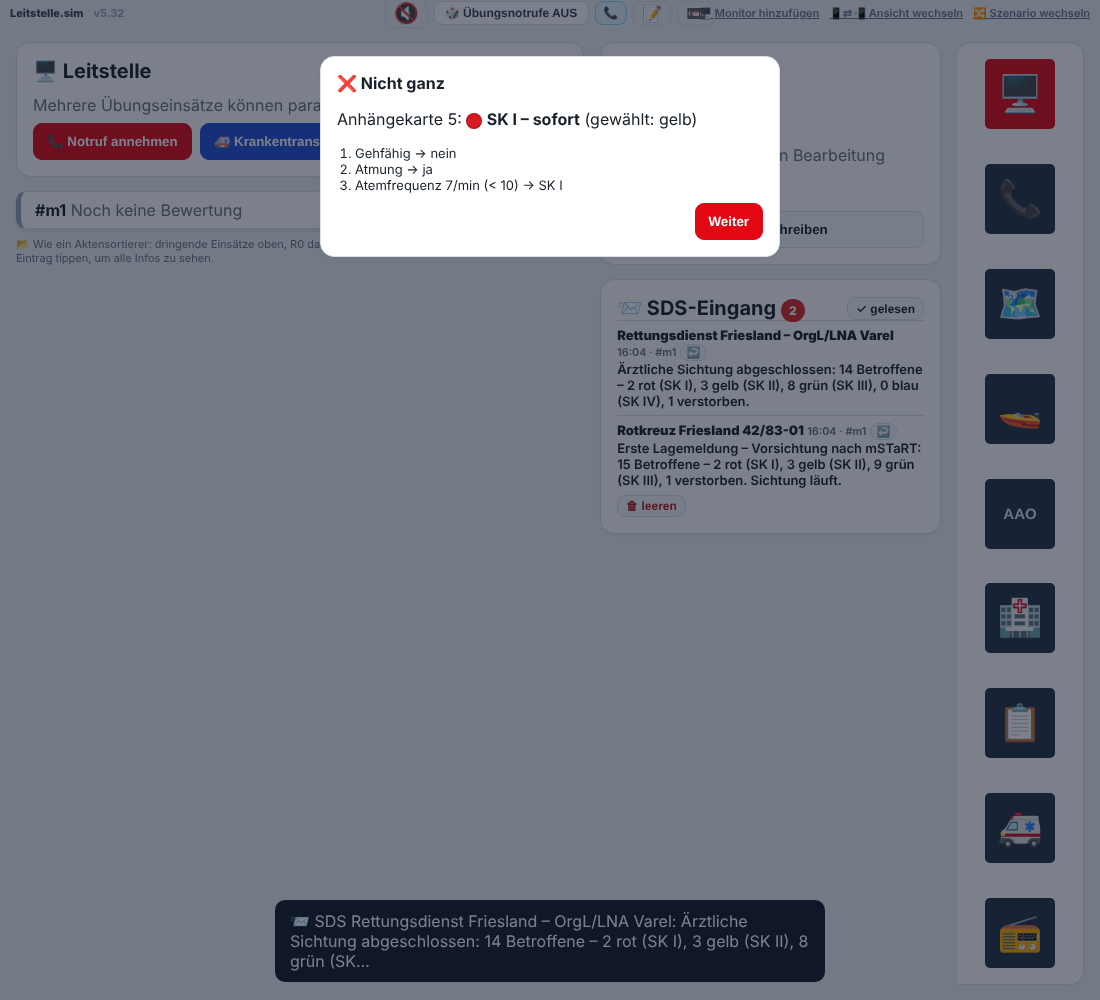
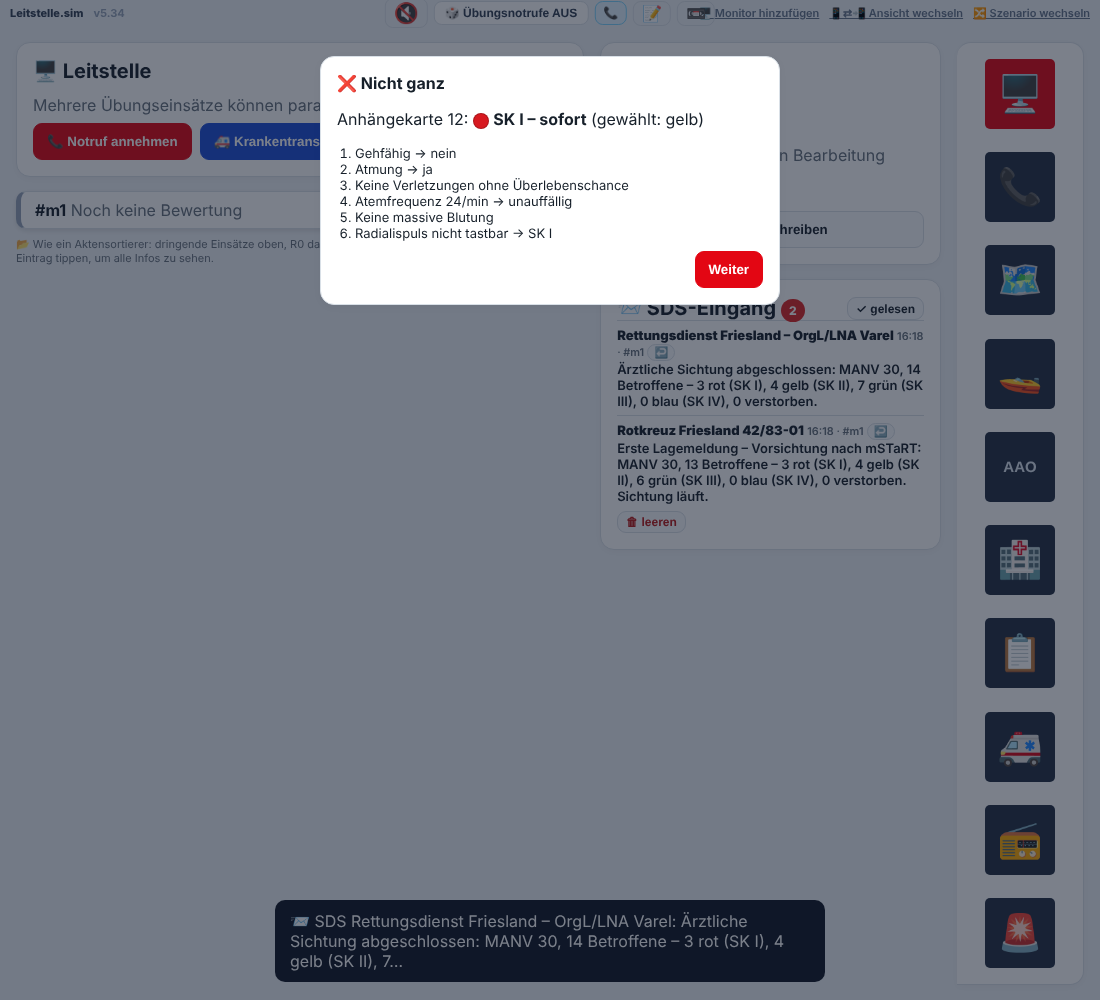
v5.34: MANV-Patientenübersicht, Sichtung per Fahrzeug-Handy, Nachbarkreise beim MANV direkt + Gebietsabsicherung
Claude-Session: https://claude.ai/code/session_01KTpf6e5UNSs8WWJnGktfVJ

diff --git a/index.html b/index.html
@@ -170,7 +170,7 @@ html[data-device="handy"] #floatDock{left:8px;right:8px;width:auto;top:auto;bott
 </head>
 <body>
 <div style="padding:6px 10px;font-size:11px;color:#94a3b8;font-weight:700;display:flex;flex-wrap:wrap;align-items:center;gap:10px;position:sticky;top:0;z-index:10;background:var(--bg)">
- <span style="color:#334155;font-weight:800">Leitstelle.sim</span> <span id="versionTag">v5.33</span>
+ <span style="color:#334155;font-weight:800">Leitstelle.sim</span> <span id="versionTag">v5.34</span>
  <span id="syncState"></span> <a id="deskTag" href="#" onclick="renameDesk();return false" title="Name dieses Platzes (für „offen an …“) – antippen zum Ändern" style="color:#64748b;font-weight:700;text-decoration:none"></a>
  <span id="simCtl" style="position:absolute;left:50%;transform:translateX(-50%);display:flex;gap:6px;align-items:center"></span>
  <a id="homeLink" href="#" onclick="render('leitstelle');return false" class="hidden" style="color:#64748b;text-decoration:underline;font-weight:600">🖥 Leitstelle</a>
@@ -829,7 +829,7 @@ const isTerminalLink=(()=>{
  return !!(p.get("vehicle")||p.get("neighbor")||p.get("caller"));
 })();
 const NAV_PAGES_ALL=[
- ["leitstelle","🖥 Leitstelle"],["notruf","📞 Notruf"],["karte","🗺 Karte"],["mittel","🚤 Fahrzeuge"],["aao","🧠 AAO"],["ivena","🏥 IVENA"],["ivenaZuweisungen","📋 IVENA-Zuweisungen"],["nachbarLks","🚑 Nachbar LKs"],["funk","📻 Funkrufgruppen"]
+ ["leitstelle","🖥 Leitstelle"],["notruf","📞 Notruf"],["karte","🗺 Karte"],["mittel","🚤 Fahrzeuge"],["aao","🧠 AAO"],["ivena","🏥 IVENA"],["ivenaZuweisungen","📋 IVENA-Zuweisungen"],["nachbarLks","🚑 Nachbar LKs"],["funk","📻 Funkrufgruppen"],["manv","🚨 MANV"]
 ];
 // Zusatz-Monitor (per QR vom Hauptplatz geöffnet): vollwertige Leitstellen-Oberfläche, die ihren
 // kompletten Zustand in Echtzeit mit dem Hauptplatz und allen anderen Monitoren teilt.
@@ -1159,6 +1159,7 @@ function render(page="leitstelle"){
  if(page==="nachbarLks") nachbarLks();
  if(page==="protokolle") simProtoPage();
  if(page==="funk") funkPage();
+ if(page==="manv") manvPage();
  const app=document.getElementById("app");
  if(app){
    const inner=app.innerHTML;
@@ -1479,7 +1480,7 @@ function simulatedUnitPosition(u){
    const call=findUnitCall(u);
    const hp=asg&&hospitalPoint(asg.hospitalId);
    const cp=!hp&&call&&callDestinationPoint(call,u);
-   const start=hp||cp;
+   const start=hp||cp||(u.cover&&u.coverFrom&&!call?u.coverFrom:null);
    if(!start)return null; // kein erkennbarer vorheriger Ort -> einfach an der Wache
    const totalMs=(u.status2Due&&u.status1Since)?(u.status2Due-u.status1Since):8*60000;
    const startMs=u.status1Since||Date.now();
@@ -2238,12 +2239,13 @@ function islandReachable(u){
 }
 // DRK-Rettungswagen/-KTW sind Hintergrunddienst: nie automatisch vorschlagen, nur manuell
 // (Reiter DRK) oder wenn ausdrücklich die Organisation DRK angefordert ist.
-function drkBackground(u){return u&&u.org==="DRK"&&["RTW","KTW","NKTW","NEF"].includes(u.type)}
+function drkBackground(u){return u&&u.org==="DRK"&&["RTW","KTW","NKTW","NEF"].includes(u.type)&&!AVAIL_MANV}
+let AVAIL_MANV=false; // v5.34: beim MANV gehören auch die DRK-Hintergrund-Rettungsmittel in den Vorschlag
 function availableUnits(type,org=null){
  const orgOk=u=>!org||u.org===org||(org==="DLRG"&&u.wasserrettung);
- const prim=nearestFirst(db.units.filter(u=>!u.neighborLoan&&(!type||u.type===type)&&orgOk(u)&&(org==="DRK"||!drkBackground(u))&&["1","2"].includes(u.status)&&islandReachable(u)));
+ const prim=nearestFirst(db.units.filter(u=>(!u.neighborLoan||u.cover)&&(!type||u.type===type)&&orgOk(u)&&(org==="DRK"||!drkBackground(u))&&["1","2"].includes(u.status)&&islandReachable(u)));
  if(prim.length)return prim;
- return nearestFirst(db.units.filter(u=>!u.neighborLoan&&(!type||u.type===type)&&orgOk(u)&&(org==="DRK"||!drkBackground(u))&&u.status==="8"&&islandReachable(u)));
+ return nearestFirst(db.units.filter(u=>(!u.neighborLoan||u.cover)&&(!type||u.type===type)&&orgOk(u)&&(org==="DRK"||!drkBackground(u))&&u.status==="8"&&islandReachable(u)));
 }
 function chooseOne(type,org=null){return availableUnits(type,org)[0]||null}
 
@@ -2305,9 +2307,9 @@ function thwGroup(u){return String(u.fachgruppe||THW_GROUP_DEFAULT[u.opta]||"Ohn
 function chooseAvailableByType(type,org=null){
  const types=Array.isArray(type)?type:[type];
  const orgOk=u=>!org||u.org===org;
- const primary=nearestFirst(db.units.filter(u=>!u.neighborLoan&&orgOk(u)&&(org==="DRK"||!drkBackground(u))&&islandReachable(u)&&types.includes(u.type) && ["1","2"].includes(String(u.status))));
+ const primary=nearestFirst(db.units.filter(u=>(!u.neighborLoan||u.cover)&&orgOk(u)&&(org==="DRK"||!drkBackground(u))&&islandReachable(u)&&types.includes(u.type) && ["1","2"].includes(String(u.status))));
  if(primary.length)return primary[0];
- const fallback=nearestFirst(db.units.filter(u=>!u.neighborLoan&&orgOk(u)&&(org==="DRK"||!drkBackground(u))&&islandReachable(u)&&types.includes(u.type) && String(u.status)==="8"));
+ const fallback=nearestFirst(db.units.filter(u=>(!u.neighborLoan||u.cover)&&orgOk(u)&&(org==="DRK"||!drkBackground(u))&&islandReachable(u)&&types.includes(u.type) && String(u.status)==="8"));
  return fallback[0]||null;
 }
 // Wasserrettungszug Friesland: Das Führungsfahrzeug (Pelikan Friesland 71/11-01, ELW1) wird
@@ -2351,6 +2353,56 @@ function loanNeighborUnit(nu){
  db.units.push(loaned);
  nu.status="3";
  return loaned;
+}
+// v5.34: MANV – Nachbar-Fahrzeug direkt alarmieren (ohne Anfrage), Nachbar-LST bekommt eine Info
+function manvNbAlarm(call,nu,coverFor){
+ const lst=NEIGHBOR_LEITSTELLE[nu.district]==="ostfriesland"?"KRLS Ostfriesland":"GOL";
+ const loaned=loanNeighborUnit(nu);
+ if(coverFor){
+   // Gebietsabsicherung: fährt an unsere Wache und steht dort für neue Einsätze bereit
+   Object.assign(loaned,{cover:true,coverCallId:String(call.id),coverFor:coverFor.name,location:coverFor.name,homeLat:coverFor.pt[0],homeLng:coverFor.pt[1],coverFrom:[nu.lat,nu.lng]});
+   delete loaned.lat; delete loaned.lng;
+   const km=haversine(nu.lat,nu.lng,coverFor.pt[0],coverFor.pt[1]);
+   loaned.status="1"; loaned.status1Since=Date.now(); loaned.status2Due=Date.now()+Math.max(4,Math.round(2+km/70*60))*60000;
+   (call.history=call.history||[]).push({q:`🛡 Gebietsabsicherung (${lst})`,a:`${nu.opta} aus LK ${nu.district} → Wache ${coverFor.name}, ca. ${Math.round((loaned.status2Due-Date.now())/60000)} min`});
+ }else{
+   setUnitStatus(loaned,"3"); appendUnitToCall(call,loaned,`Nachbar-LK ${nu.district} (MANV)`);
+   call.alarmedUnits=call.alarmedUnits||[]; if(!call.alarmedUnits.some(id=>String(id)===String(loaned.id)))call.alarmedUnits.push(loaned.id);
+   (call.history=call.history||[]).push({q:`🚑 MANV: Nachbar-LK direkt alarmiert`,a:`${nu.opta} (LK ${nu.district}) – ${lst} informiert`});
+ }
+ call.manvNbInfo=call.manvNbInfo||{}; call.manvNbInfo[lst]=(call.manvNbInfo[lst]||0)+1;
+ return loaned;
+}
+// Gebietsabsicherung: jede eigene RTW-/NEF-Wache ohne freies Fahrzeug bekommt eins aus den Nachbarkreisen
+function manvAreaCover(callId){
+ const call=allOpenCalls().find(c=>String(c.id)===String(callId)); if(!call)return;
+ const own=db.units.filter(u=>!u.neighborLoan&&["RTW","NEF"].includes(u.type)&&!u.island&&String(u.status)!=="6"&&(u.org==="Rettungsdienst"||u.org==="DRK"));
+ const wachen=new Map(); own.forEach(u=>{const k=u.type+"|"+(u.location||"?");if(!wachen.has(k))wachen.set(k,{type:u.type,name:u.location||"?",units:[],pt:unitPoint(u)});wachen.get(k).units.push(u)});
+ const usedN=new Set(); let n=0;
+ for(const w of wachen.values()){
+   if(!w.pt)continue;
+   if(w.units.some(u=>["1","2"].includes(String(u.status))))continue; // dort ist noch eins frei
+   if(db.units.some(u=>u.cover&&u.coverFor===w.name&&u.type===w.type))continue;
+   const free=(db.neighborUnits||[]).filter(x=>x.type===w.type&&["1","2"].includes(String(x.status))&&!usedN.has(String(x.id))&&Number.isFinite(x.lat));
+   const keepsOne=x=>free.filter(y=>y.district===x.district).length>1;
+   const cand=free.filter(keepsOne).map(x=>({x,km:haversine(w.pt[0],w.pt[1],x.lat,x.lng)})).sort((a,b)=>a.km-b.km)[0];
+   if(!cand){(call.history=call.history||[]).push({q:"🛡 Gebietsabsicherung",a:`Wache ${w.name} (${w.type}): kein Nachbar-Fahrzeug mehr frei`});continue}
+   usedN.add(String(cand.x.id)); manvNbAlarm(call,cand.x,w); n++;
+ }
+ const info=Object.entries(call.manvNbInfo||{}).map(([l,k])=>`${l}: ${k} Fahrzeug${k>1?"e":""}`).join(" · ");
+ if(info){sdsLog({dir:"in",opta:"Nachbar-Leitstellen",callId:String(call.id),text:`🚨 MANV-Info bestätigt – ${info}${n?` (davon ${n} zur Gebietsabsicherung)`:""}`,read:false});toast(`🚑 MANV: Nachbarkreise direkt alarmiert – ${info}`)}
+ save(); if(["leitstelle","karte","mittel","nachbarLks"].includes(currentPage)&&!uiLocked)render(currentPage);
+}
+// MANV beendet → Gebietsabsicherung fährt heim (wenn frei; sonst nach dem laufenden Einsatz)
+function manvCoverRelease(callId){
+ let changed=false;
+ db.units.filter(u=>u.cover&&String(u.coverCallId)===String(callId)).forEach(u=>{
+   const busy=allOpenCalls().some(o=>String(o.id)!==String(callId)&&(o.alarmedUnits||[]).some(id=>String(id)===String(u.id)));
+   if(busy){u.coverEnd=true;return}
+   const orig=(db.neighborUnits||[]).find(n=>String(n.id)===String(u.neighborUnitId)); if(orig)orig.status="1";
+   db.units=db.units.filter(x=>String(x.id)!==String(u.id)); changed=true;
+ });
+ return changed;
 }
 function alarmNeighborUnit(neighborUnitId,callId){
  const call=allOpenCalls().find(c=>String(c.id)===String(callId));
@@ -4232,6 +4284,10 @@ function goBackNotruf(){
 }
 function evaluate(){
  applyDutySchedule();
+ AVAIL_MANV=Number(db.currentCall&&db.currentCall.answers&&db.currentCall.answers.count)>3;
+ try{return evaluate0()}finally{AVAIL_MANV=false}
+}
+function evaluate0(){
  const c=db.currentCall, a=c.answers, e=a.event||"";
 
  if(a.callType && a.callType!=="112"){
@@ -4575,7 +4631,12 @@ function evaluate(){
    // (Zeitersparnis gegenüber dem ersten anderen Einsatzmittel wird nach der Auswahl geprüft.)
    if(r.firstResponder&&u){const fe=estimatedEtaMinutes(u);if(fe==null||fe>15)continue}
    if(u){selected.push({...u,firstResponder:!!r.firstResponder});used.add(u.id)}
-   else selected.push({missing:true,type:r.type,org:r.org});
+   else{
+     // v5.34 MANV: fehlende Rettungsmittel kommen direkt aus den Nachbarkreisen – auch von weiter weg
+     const nbm=AVAIL_MANV&&ip&&!incidentOnWangerooge()?(db.neighborUnits||[]).filter(n=>n.type===r.type&&["1","2"].includes(String(n.status))&&!usedN.has(String(n.id))&&Number.isFinite(n.lat)).map(n=>{const km=haversine(ip[0],ip[1],n.lat,n.lng);return {n,km,eta:etaMinutesForDistance({...n,org:"Rettungsdienst",neighborLoan:true,status:String(n.status)},km)}}).sort((x,y)=>x.eta-y.eta)[0]:null;
+     if(nbm){selected.push({...nbm.n,neighbor:true,neighborKm:nbm.km,neighborEta:nbm.eta});usedN.add(String(nbm.n.id))}
+     else selected.push({missing:true,type:r.type,org:r.org});
+   }
  }
  // First Responder nur bei echter Zeitersparnis gegenüber dem ersten eintreffenden Einsatzmittel
  // (Nutzerangabe): Reanimation > 1 min, Verkehrsunfall > 2 min, sonst > 3 min.
@@ -4831,7 +4892,11 @@ function alarmProposal(){
  // angefragt werden (sie entscheidet und alarmiert selbst). Vorschläge werden automatisch angefragt.
  const nbAsk=(c.neighborProposal||[]).map(nid=>(db.neighborUnits||[]).find(n=>String(n.id)===String(nid))).filter(Boolean);
  c.neighborProposal=[];
- setTimeout(()=>nbAsk.forEach(nu=>nbOutRequest(c.id,NEIGHBOR_LEITSTELLE[nu.district],{unitId:nu.id,type:nu.type})),300);
+ const manvNow=isManvCall(c)&&currentScenarioId==="fri-whv";
+ // v5.34: beim MANV werden Nachbar-Fahrzeuge ohne Rückfrage direkt alarmiert (Nachbar-LST wird informiert)
+ if(manvNow){c.alarmedUnits=c.alarmedUnits||[];for(const nu of nbAsk)if(["1","2"].includes(String(nu.status)))manvNbAlarm(c,nu,null)}
+ else setTimeout(()=>nbAsk.forEach(nu=>nbOutRequest(c.id,NEIGHBOR_LEITSTELLE[nu.district],{unitId:nu.id,type:nu.type})),300);
+ if(manvNow)setTimeout(()=>{try{manvAreaCover(c.id)}catch(e){console.warn(e)}},500);
  for(const id of c.proposedUnitIds){
    const u=db.units.find(x=>x.id===id);
    if(!u)continue;
@@ -5182,6 +5247,88 @@ function manvTrainPick(sk){
   <ol style="font-size:13px;margin:0 0 0 18px;padding:0">${r.path.map(x=>`<li>${esc(x)}</li>`).join("")}</ol>
   <div class="row" style="justify-content:flex-end;margin-top:10px"><button class="primary" onclick="manvTrainDialog('${esc(String(T.id))}')">Weiter</button></div>`);
 }
+// ─── v5.34: Sichtung per Fahrzeug-Handy + MANV-Patientenübersicht ───────────────────────────────
+// Sichten dürfen: RTW, RTH, KTW, NKTW, KTH, NEF, ITW, ITH, NAW, GW-San, GW Wasserrettung und
+// GW Drohne der DLRG sowie ELW, MTW und MZF des DRK. Patientenkarten (Anhängekarten) je Fahrzeug:
+// NEF 25, GW-San und ELW 50, alle anderen 15. Kartennummer = Fahrzeug + laufende Nummer.
+const TRIAGE_RD=new Set(["RTW","RTH","KTW","NKTW","KTH","NEF","ITW","ITH","NAW"]);
+function triageCardCount(u){
+ if(!u)return 0; const t=String(u.type||""), o=String(u.org||"");
+ if(/^GW[- ]?San/i.test(t))return 50;
+ if(t==="NEF")return 25;
+ if(TRIAGE_RD.has(t))return 15;
+ if(o==="DLRG"&&/^GW (Wasserrettung|Drohne)$/i.test(t))return 15;
+ if(o==="DRK"&&/^ELW/i.test(t))return 50;
+ if(o==="DRK"&&/^(MTW|MZF)$/i.test(t))return 15;
+ return 0;
+}
+function triageUnitTag(u){const s=String(u&&(u.opta||u.name)||"?");const m=s.match(/(\d+[\/-]\d+(?:-\d+)?)\s*$/);return m?m[1]:s.slice(-8)}
+function triageCardId(u,n){return `${triageUnitTag(u)}-${String(n).padStart(2,"0")}`}
+function isManvLike(c){return !!c&&(!!c.manv||/MANV/.test(c.keyword||"")||Number(c.answers&&c.answers.count)>3)}
+// Alle Patienten eines MANV: Handy-Sichtungen der Einsatzkräfte + simulierte Vorsichtung
+function manvAllPatients(c){
+ const out=[];
+ Object.values(c.manvCards||{}).forEach(x=>out.push({src:"phone",card:x.cardId||x.card,sk:Number(x.sk),by:x.label||String(x.unitId),at:x.at,hist:x.hist||[]}));
+ if(c.manvTruth&&c.manvTruth.pats&&(c.manvReports||[]).length){
+   const orgl=(c.manvReports||[]).some(r=>r.kind==="orgl"), first=(c.manvReports||[]).find(r=>r.kind==="first");
+   c.manvTruth.pats.forEach(p=>{const tr=(c.manvPatients||[]).find(x=>x.pid===p.n), u=tr&&tr.unit?db.units.find(x=>String(x.id)===String(tr.unit)):null;
+     out.push({src:"sim",card:String(p.n),sk:orgl?p.sk:p.vs,by:first?first.by:"",at:first?first.at:null,p,unit:u?(u.opta||u.name):"",vs:p.vs})});
+ }
+ return out;
+}
+function manvPage(){
+ const calls=allOpenCalls().filter(c=>c&&isManvLike(c));
+ const f=window._manvFilter||0;
+ const chip=(k,l)=>`<button onclick="window._manvFilter=${k};render('manv')" class="${f===k?"primary":""}" style="font-size:12px;padding:4px 10px">${l}</button>`;
+ const block=c=>{
+   const P=manvAllPatients(c).filter(x=>!f||x.sk===f).sort((a,b)=>a.sk-b.sk||String(a.card).localeCompare(String(b.card),"de",{numeric:true}));
+   const all=manvAllPatients(c), cnt=k=>all.filter(x=>x.sk===k).length;
+   const rows=P.map(x=>`<tr style="border-bottom:1px solid var(--line)"><td style="padding:5px 4px;font-weight:800;white-space:nowrap">${esc(String(x.card))}</td><td>${mstartDot(x.sk,15)} <small>${MSTART_COL[x.sk]?MSTART_COL[x.sk][2]:"?"}</small>${x.src==="sim"&&x.vs!==x.sk?` <small class="muted">(Vorsichtung ${MSTART_COL[x.vs][1]})</small>`:""}${(x.hist||[]).length>1?` <small class="muted">(vorher ${x.hist.slice(0,-1).map(h=>MSTART_COL[h]?MSTART_COL[h][1]:h).join(", ")})</small>`:""}</td>
+     <td style="font-size:12px">${x.src==="phone"?`📱 ${esc(x.by)}`:`<span title="Simulierte Lage">🤖 ${esc(x.by||"")}</span>`}${x.at?` <span class="muted">${hhmm(x.at)}</span>`:""}</td>
+     <td style="font-size:12px">${x.p?`${x.p.gender==="W"?"♀":"♂"} ${x.p.age} J. – ${esc(x.p.inj)}`:"<span class='muted'>—</span>"}</td><td style="font-size:12px">${x.unit?esc(x.unit):x.sk===5?"—":"<span class='muted'>offen</span>"}</td></tr>`).join("");
+   return `<div class="card"><div class="row between"><h3 style="margin:0">#${esc(String(c.id))} ${esc(c.keyword||"MANV")}</h3><small class="muted">${esc(c.location||"")}</small></div>
+    <div style="margin:6px 0;font-weight:800">${[1,2,3,4,5].map(k=>`<span style="margin-right:12px">${mstartDot(k,13)} ${cnt(k)}</span>`).join("")}<small class="muted">${all.length} Patienten gesamt</small></div>
+    ${P.length?`<div style="overflow:auto"><table style="width:100%;border-collapse:collapse"><tr style="text-align:left;font-size:12px"><th>Karte</th><th>SK</th><th>Gesichtet von</th><th>Patient</th><th>Transport</th></tr>${rows}</table></div>`:`<p class="muted">Noch keine Patienten gesichtet${f?" in dieser Kategorie":""}.</p>`}</div>`};
+ document.getElementById("app").innerHTML=`<div class="card"><h2 style="margin:0">🚨 MANV – alle Patienten</h2>
+  <p class="muted" style="margin:4px 0 8px">📱 = vom Fahrzeug-Handy gesichtet · 🤖 = simulierte Sichtung. Aktualisiert sich von selbst.</p>
+  <div class="row" style="gap:6px;flex-wrap:wrap">${chip(0,"Alle")}${[1,2,3,4,5].map(k=>chip(k,`${mstartDot(k)} ${MSTART_COL[k][1]}`)).join("")}</div></div>
+  ${calls.length?calls.map(block).join(""):`<div class="card"><p class="muted">Zurzeit kein MANV.</p></div>`}
+  <div class="card">${mstartSchemeHTML()}</div>`;
+}
+setInterval(()=>{try{if(currentPage==="manv"&&!uiLocked&&!isTerminalLink&&!document.getElementById("lstModal"))render("manv")}catch(e){}},3000);
+// Fahrzeug-Handy: Karte wählen → Farbe wählen
+let vehicleTriageSel=null, vehicleTriageLocal={};
+function vehicleTriageHTML(local,unit,unitId,dburl,sid,c,mine){
+ const u={...(local||{}),...(unit||{})}, N=triageCardCount(u); if(!N)return "";
+ const st={...mine,...(vehicleTriageLocal[c.id]||{})};
+ const q=x=>String(x).replace(/'/g,"\\'");
+ const used=Object.keys(st).length;
+ const cell=n=>{const sk=st[n];const col=sk?MSTART_COL[sk][0]:"#fff";return `<button onclick="vehicleTriageSel=${vehicleTriageSel===n?"null":n};terminalRefreshFn&&terminalRefreshFn()" style="min-width:0;padding:8px 0;font-weight:800;background:${col};color:${sk===5||sk===1||sk===4?"#fff":"#111"};border:${vehicleTriageSel===n?"3px solid #111":"1px solid #94a3b8"}">${n}</button>`};
+ const pick=vehicleTriageSel&&vehicleTriageSel<=N?`<div style="margin-top:8px;padding:8px;border-radius:8px;background:#f1f5f9"><b>Karte ${esc(triageCardId(u,vehicleTriageSel))}</b>${st[vehicleTriageSel]?` – jetzt ${MSTART_COL[st[vehicleTriageSel]][1]}`:""}
+   <div style="display:grid;gap:6px;margin-top:6px">${[1,2,3,4,5].map(k=>`<button onclick="vehicleTriageSend('${q(unitId)}','${q(dburl)}','${q(sid)}','${q(String(c.id))}',${vehicleTriageSel},${k})" style="display:flex;align-items:center;justify-content:center;gap:8px;padding:12px;font-size:16px;font-weight:800;background:${MSTART_COL[k][0]};color:${k===2||k===3?"#111":"#fff"}">${MSTART_COL[k][2]}</button>`).join("")}
+   <button onclick="vehicleTriageSel=null;terminalRefreshFn&&terminalRefreshFn()">Abbrechen</button></div></div>`:"";
+ return `<div class="card" style="margin-top:12px"><div class="row between"><h2 style="margin:0">🏷 Sichtung</h2><small class="muted">${used}/${N} Karten benutzt</small></div>
+  <p class="muted" style="font-size:12px;margin:4px 0 8px">Patientenkarte antippen, dann Kategorie wählen. Nochmal antippen = umsichten.</p>
+  <div style="display:grid;grid-template-columns:repeat(5,1fr);gap:5px">${Array.from({length:N},(_,i)=>cell(i+1)).join("")}</div>${pick}
+  <div style="margin-top:8px;font-size:13px;font-weight:800">${[1,2,3,4,5].map(k=>`<span style="margin-right:10px">${mstartDot(k)} ${Object.values(st).filter(v=>v===k).length}</span>`).join("")}</div>
+  <details style="margin-top:6px"><summary style="cursor:pointer;font-size:13px">📘 mSTaRT</summary>${mstartSchemeHTML().replace(/^<details[^>]*><summary[^<]*<\/summary>/,"").replace(/<\/details>$/,"")}</details></div>`;
+}
+async function vehicleTriageSend(unitId,dburl,sid,callId,card,sk){
+ const local=db.units.find(x=>String(x.id)===String(unitId));
+ vehicleTriageLocal[callId]=vehicleTriageLocal[callId]||{}; vehicleTriageLocal[callId][card]=sk; vehicleTriageSel=null;
+ if(typeof terminalRefreshFn==="function")terminalRefreshFn();
+ try{await pushFeedbackEntry(dburl,sid,{kind:"triage",callId,unitId,unitLabel:local?.opta||local?.name||unitId,card,cardId:triageCardId(local||{name:unitId},card),sk});toast(`🏷 Karte ${card}: ${MSTART_COL[sk][1]}`)}
+ catch(e){toast("Senden fehlgeschlagen – bitte nochmal")}
+}
+// Leitstelle: eingehende Handy-Sichtung übernehmen (letzte Meldung je Karte gilt)
+function manvApplyTriage(call,fb){
+ call.manvCards=call.manvCards||{}; const key=`${fb.unitId}#${fb.card}`, old=call.manvCards[key];
+ if(old&&old.fbIds&&old.fbIds.includes(String(fb.id)))return false;
+ if(old&&new Date(old.at)>new Date(fb.time))return false;
+ const hist=(old&&old.hist||[]).concat([Number(fb.sk)]);
+ call.manvCards[key]={unitId:fb.unitId,label:fb.unitLabel,card:fb.card,cardId:fb.cardId||`${fb.unitId}-${fb.card}`,sk:Number(fb.sk),at:fb.time,hist,fbIds:(old&&old.fbIds||[]).concat([String(fb.id)]).slice(-20)};
+ call.manv=true; return true;
+}
 function manvReport(c,u,kind){
  const T=manvTruth(c), jit=v=>Math.max(0,v+(Math.random()<0.5?0:pick([-1,1])));
  manvPats(c);
@@ -5201,7 +5348,8 @@ function manvReport(c,u,kind){
  }
 }
 function manvStripHTML(c){
- const R=(c.manvReports||[]).slice(-1)[0]; if(!R&&!isManvCall(c))return "";
+ const R=(c.manvReports||[]).slice(-1)[0]; if(!R&&!isManvCall(c)&&!c.manvCards)return "";
+ const PC=Object.values(c.manvCards||{}), pcHTML=PC.length?`<div style="margin-top:3px">📱 Handy-Sichtung: ${[1,2,3,4,5].map(k=>`<span style="margin-right:8px;font-weight:800">${mstartDot(k)} ${PC.filter(x=>Number(x.sk)===k).length}</span>`).join("")}<button onclick="event.stopPropagation();render('manv')" style="font-size:11px;padding:2px 8px">🚨 Alle Patienten</button></div>`:"";
  const dot=(col,n,t)=>`<span title="${t}" style="display:inline-flex;align-items:center;gap:3px;margin-right:8px;font-weight:800"><span style="width:12px;height:12px;border-radius:50%;background:${col};display:inline-block;border:1px solid #0003"></span>${n}</span>`;
  const br=c.staging?`🅿 BR: ${esc(c.staging.name)}`:c.brMode==="orgl"?"🅿 BR: OrgL legt fest …":isManvCall(c)?`<button onclick="event.stopPropagation();lstSetStaging('${esc(String(c.id))}')" style="font-size:11px;padding:2px 8px">🅿 BR festlegen</button> <button onclick="event.stopPropagation();setBrMode('${esc(String(c.id))}','orgl')" style="font-size:11px;padding:2px 8px">OrgL legt fest</button>`:"";
  const tr=(c.manvPatients||[]), done=tr.filter(p=>p.unit).length;
@@ -5209,7 +5357,8 @@ function manvStripHTML(c){
   ${R?`<div><b>${R.total} Betroffene</b> <small class="muted">(${R.kind==="first"?"erste Meldung":"Sichtung"} ${esc(R.by)} ${hhmm(R.at)})</small></div>
   <div style="margin-top:3px">${dot("#d71920",R.rot,"rot – SK I")}${dot("#f2c200",R.gelb,"gelb – SK II")}${dot("#22c55e",R.gruen,"grün – SK III")}${dot("#2563eb",R.blau,"blau – SK IV")}${dot("#111827",R.schwarz,"verstorben")}${tr.length?`<small class="muted">· ${done}/${tr.length} Pat. von Rettungsmitteln übernommen</small>`:""}</div>
   ${(()=>{const open=tr.filter(p=>!p.unit),free=callUnits(c).filter(u=>CREW_TRANSPORT.has(u.type)&&["3","4"].includes(String(u.status))&&!(u.crew&&u.crew.mode==="transport")).length,miss=open.length-free;return miss>0?`<div style="margin-top:3px;color:#b91c1c;font-weight:800">⚠ ${miss} Pat. noch ohne Transportmittel (${["SK1","SK2","SK3","SK4"].map((k,i)=>{const n=open.filter(p=>p.sk===i+1).length;return n?`${n}× ${k}`:""}).filter(Boolean).join(", ")}) – nachalarmieren!</div>`:""})()}`:`<div>🚨 MANV – Rückmeldung von der Einsatzstelle steht noch aus</div>`}
-  ${R?`<div style="margin-top:4px"><button onclick="event.stopPropagation();manvListDialog('${esc(String(c.id))}')" style="font-size:11px;padding:2px 8px">📋 Sichtung (mSTaRT)</button> <button onclick="event.stopPropagation();mstartTrain=null;manvTrainDialog('${esc(String(c.id))}',true)" style="font-size:11px;padding:2px 8px">🎓 Selbst sichten</button></div>`:""}
+  ${R?`<div style="margin-top:4px"><button onclick="event.stopPropagation();render('manv')" style="font-size:11px;padding:2px 8px">🚨 Alle Patienten</button> <button onclick="event.stopPropagation();manvListDialog('${esc(String(c.id))}')" style="font-size:11px;padding:2px 8px">📋 Sichtung (mSTaRT)</button> <button onclick="event.stopPropagation();mstartTrain=null;manvTrainDialog('${esc(String(c.id))}',true)" style="font-size:11px;padding:2px 8px">🎓 Selbst sichten</button></div>`:""}
+  ${pcHTML}
   ${br?`<div style="margin-top:4px">${br}</div>`:""}</div>`;
 }
 function setBrMode(id,mode){const c=allOpenCalls().find(x=>String(x.id)===String(id));if(!c)return;c.brMode=mode;(c.history=c.history||[]).push({q:"🅿 Bereitstellungsraum",a:mode==="orgl"?"wird vom OrgL vor Ort festgelegt":"legt die Leitstelle fest"});save();render(currentPage)}
@@ -5386,7 +5535,9 @@ function finishCall(id=null){
  ids.forEach(uid=>{
    const u=db.units.find(x=>String(x.id)===String(uid));
    if(!u)return;
-   if(u.neighborLoan){
+   if(u.neighborLoan&&u.cover&&!u.coverEnd&&allOpenCalls().some(o=>String(o.id)===String(u.coverCallId)&&String(o.id)!==String(c.id))){
+     if(!["1","2"].includes(String(u.status)))setUnitStatus(u,"1"); // Gebietsabsicherung: zurück an „unsere“ Wache
+   }else if(u.neighborLoan){
      const orig=db.neighborUnits.find(n=>String(n.id)===String(u.neighborUnitId));
      if(orig)orig.status="1";
      db.units=db.units.filter(x=>String(x.id)!==String(u.id));
@@ -5396,6 +5547,7 @@ function finishCall(id=null){
    }
  });
  c.endTime=new Date().toISOString();
+ try{manvCoverRelease(c.id)}catch(e){}
  if(db.cloud?.enabled)setTimeout(()=>closeCallCloud(c),0);
  db.logs.unshift(c);
 
@@ -6110,6 +6262,7 @@ async function pollCloudUnits(){
      if(!fb||fb.id==null||!fb.callId)continue;
      const call=allCalls.find(c=>String(c.id)===String(fb.callId));
      if(!call)continue;
+     if(fb.kind==="triage"){if(manvApplyTriage(call,fb))changed=true;continue}
      call.orglFeedback=call.orglFeedback||[];
      if(!call.orglFeedback.some(x=>String(x.id)===String(fb.id))){
        call.orglFeedback.unshift(fb);
@@ -6182,6 +6335,7 @@ const NB_REQ_KW=[["RTW","R1_Med. Notfall"],["RTW","R1_Sturz"],["RTW","R1_Atemnot
 let nbReqNextAt=0;
 function nbReqTick(){
  if(currentScenarioId!=="fri-whv")return;
+ if(allOpenCalls().some(c=>c&&isManvCall(c)&&!c.endTime))return; // während eines eigenen MANV keine Anfragen von außen
  if(!simOn||isTerminalLink||IS_MONITOR)return;
  const now=Date.now();
  if(!nbReqNextAt){nbReqNextAt=now+rnd(20,45)*60000;return}
@@ -7072,6 +7226,12 @@ async function renderVehicleTerminal(unitId,dburl,sid){
    vehicleIvenaCache=await vehicleLoadScenarioIvena(dburl,sid);
    const remoteUnits=await vehicleFetch(dburl,sid,"units");
    if(remoteUnits&&typeof remoteUnits==="object")vehicleUnitsCache=Object.values(remoteUnits).filter(Boolean);
+   let triageMine={};
+   if(calls.some(isManvLike)&&triageCardCount({...(local||{}),...(unit||{})})){
+     const fbs=await vehicleFetch(dburl,sid,"orglFeedback")||{};
+     Object.values(fbs).filter(x=>x&&x.kind==="triage"&&String(x.unitId)===String(unitId)).sort((a,b)=>new Date(a.time)-new Date(b.time)).forEach(x=>{(triageMine[x.callId]=triageMine[x.callId]||{})[x.card]=Number(x.sk)});
+     Object.entries(vehicleTriageLocal).forEach(([cid,m])=>{Object.keys(m).forEach(k=>{if(triageMine[cid]&&triageMine[cid][k]===m[k])delete m[k]})});
+   }
    const led=document.getElementById("vehicleLiveLed");
    if(led){led.style.background="#2ecc71";led.style.boxShadow="0 0 5px #2ecc71";led.title="LIVE"}
    const vType=unit?.type||local?.type;
@@ -7099,6 +7259,7 @@ async function renderVehicleTerminal(unitId,dburl,sid){
        <div class="suggest"><b>Alarmierte Mittel</b><div>${esc(c.suggestion||"—")}</div></div>
        ${Array.isArray(c.nafo)&&c.nafo.length?`<div class="card" style="background:#fff7ed"><b>📟 Nachforderung / Lageänderung</b>${c.nafo.slice(-3).map(n=>`<div>${esc(n.reason||"")}</div>`).join("")}</div>`:""}
      </div>`).join(""):""}
+    ${calls.filter(isManvLike).map(c=>["4","7"].includes(String(unit?.status))?vehicleTriageHTML(local,unit,unitId,dburl,sid,c,triageMine[String(c.id)]||{}):"").join("")}
     ${["1","2"].includes(String(unit?.status))?vehicleQualHTML(local,unit,unitId,dburl,sid):""}
     ${vehicleIvenaCache?renderIvenaMini(vehicleIvenaCache):""}`;
  }
